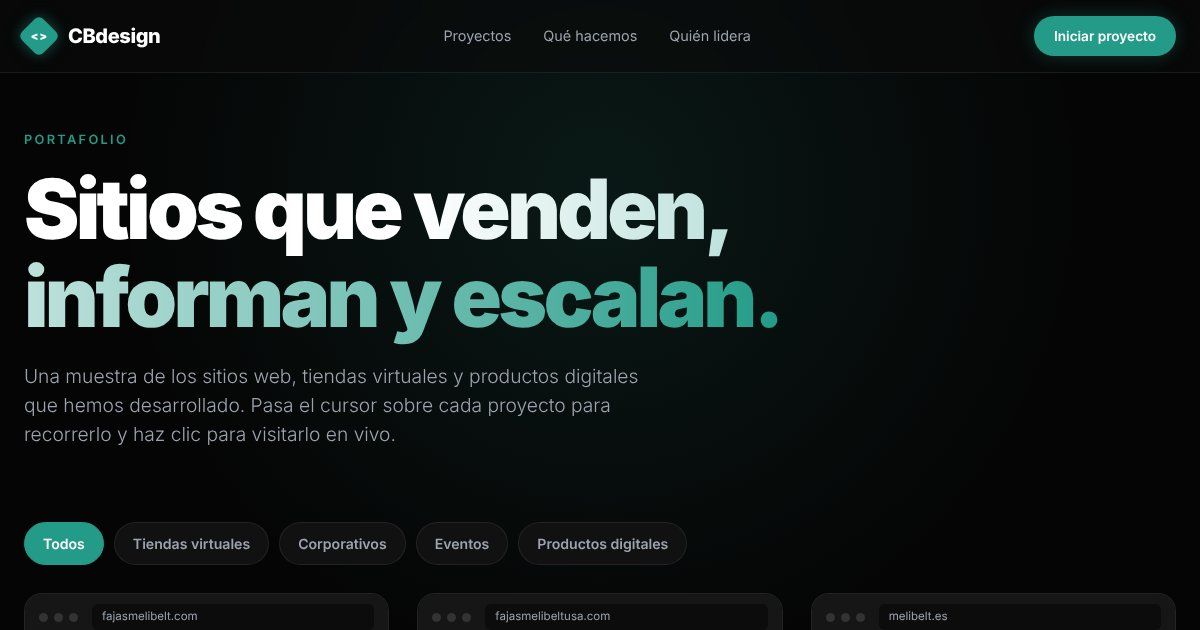
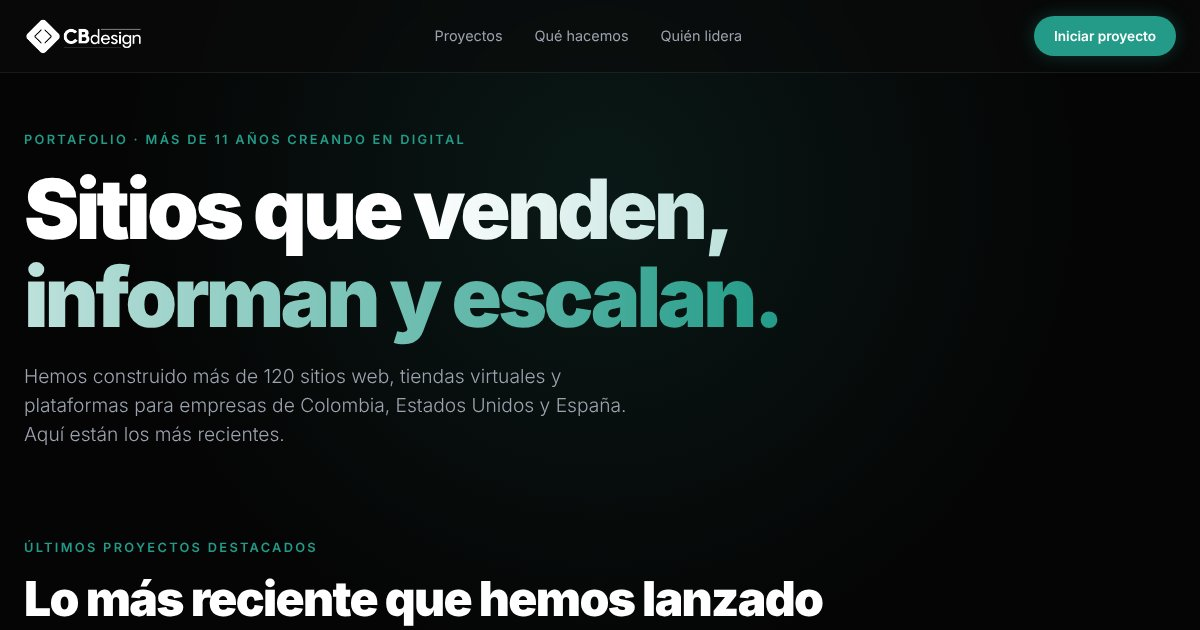
Agregar Commonbird y cifras de trayectoria al portafolio
Claude-Session: https://claude.ai/code/session_01QxxUERTRDUpvhQHNn37zke

diff --git a/index.html b/index.html
@@ -4,7 +4,7 @@
 <meta charset="UTF-8">
 <meta name="viewport" content="width=device-width, initial-scale=1.0">
 <title>Portafolio | CBdesign – Sitios web, tiendas virtuales y automatización</title>
-<meta name="description" content="Conoce los sitios web, tiendas virtuales y productos digitales que hemos desarrollado en CBdesign.">
+<meta name="description" content="Más de 120 sitios web en 11 años. Conoce las tiendas virtuales, sitios corporativos y plataformas más recientes de CBdesign.">
 <meta property="og:title" content="Portafolio CBdesign">
 <meta property="og:description" content="Sitios web, tiendas virtuales y productos digitales desarrollados por CBdesign.">
 <meta property="og:type" content="website">
@@ -36,17 +36,24 @@
 
 <main>
   <section class="hero wrap">
-    <p class="eyebrow">Portafolio</p>
+    <p class="eyebrow">Portafolio · Más de 11 años creando en digital</p>
     <h1>Sitios que <span class="grad">venden, informan y escalan.</span></h1>
-    <p class="lead">Una muestra de los sitios web, tiendas virtuales y productos digitales que hemos desarrollado. Pasa el cursor sobre cada proyecto para recorrerlo y haz clic para visitarlo en vivo.</p>
+    <p class="lead">Hemos construido más de 120 sitios web, tiendas virtuales y plataformas para empresas de Colombia, Estados Unidos y España. Aquí están los más recientes.</p>
     <ul class="stats">
-      <li><strong id="n-proy">11</strong><span>proyectos en línea</span></li>
+      <li><strong>+120</strong><span>sitios web desarrollados</span></li>
+      <li><strong>+11</strong><span>años en el mercado</span></li>
       <li><strong>3</strong><span>países con clientes activos</span></li>
-      <li><strong>100%</strong><span>desarrollo a la medida</span></li>
     </ul>
   </section>
 
   <section id="proyectos" class="wrap">
+    <div class="sec-head">
+      <div>
+        <p class="eyebrow">Últimos proyectos destacados</p>
+        <h2>Lo más reciente que hemos lanzado</h2>
+      </div>
+      <p>Pasa el cursor sobre cada proyecto para recorrerlo y haz clic para visitarlo en vivo.</p>
+    </div>
     <div class="filtros" role="group" aria-label="Filtrar proyectos">
       <button class="chip on" data-f="todos" aria-pressed="true">Todos</button>
       <button class="chip" data-f="tienda" aria-pressed="false">Tiendas virtuales</button>
@@ -56,6 +63,10 @@
     </div>
     <div id="grid" class="grid"></div>
     <noscript><p class="lead">Activa JavaScript para ver los proyectos.</p></noscript>
+    <div class="mas">
+      <p><strong>Esto es solo una muestra.</strong> Detrás hay más de 120 sitios entregados en 11 años de trabajo. Si quieres ver casos de tu sector, pídenoslos.</p>
+      <a class="btn btn-ghost" href="https://wa.me/573026673868?text=Hola%20CBdesign%2C%20quiero%20ver%20m%C3%A1s%20casos%20de%20mi%20sector." target="_blank" rel="noopener">Pedir más casos <span aria-hidden="true">→</span></a>
+    </div>
   </section>
 
   <section id="servicios" class="wrap servicios">
@@ -113,7 +124,7 @@
       <a href="mailto:contacto@cbdesign.com.co">contacto@cbdesign.com.co</a>
       <a href="https://cbdesign.com.co">cbdesign.com.co</a>
     </div>
-    <div>&copy; <span id="anio">2026</span> CBdesign. Todos los derechos reservados.</div>
+    <div>&copy; <span id="anio">2026</span> CBdesign, una marca de Commonbird · NIT 900792449</div>
   </div>
 </footer>
 

diff --git a/assets/estilos.css b/assets/estilos.css
@@ -42,6 +42,16 @@ a:focus-visible,button:focus-visible{outline:2px solid var(--brand);outline-offs
 .stats strong{display:block;font-size:2.2rem;font-weight:900;letter-spacing:-.04em;font-variant-numeric:tabular-nums}
 .stats span{color:var(--mut);font-size:.85rem}
 
+/* Encabezado de proyectos */
+.sec-head{display:flex;flex-wrap:wrap;gap:16px 40px;align-items:flex-end;justify-content:space-between;margin-bottom:28px;padding-top:20px}
+.sec-head>p{color:var(--mut);font-weight:300;max-width:340px;font-size:.95rem}
+.mas{display:flex;flex-wrap:wrap;gap:16px 32px;align-items:center;justify-content:space-between;margin-top:36px;padding:26px 30px;border:1px dashed rgba(35,155,136,.45);border-radius:18px;background:rgba(35,155,136,.06)}
+.mas p{color:#d1d5db;font-weight:300;max-width:640px}
+.mas strong{color:#fff;font-weight:700}
+.mas .btn{margin-top:0}
+.stats strong{color:#fff}
+.stats li{padding-left:16px;border-left:2px solid var(--brand)}
+
 /* Filtros */
 .filtros{display:flex;gap:10px;overflow-x:auto;padding:4px 0 28px;scrollbar-width:none}
 .filtros::-webkit-scrollbar{display:none}

diff --git a/assets/app.js b/assets/app.js
@@ -35,7 +35,6 @@
 
   function pintar(lista) {
     lista.forEach(function (p) { grid.appendChild(tarjeta(p)); });
-    document.getElementById('n-proy').textContent = lista.length;
 
     // En pantallas táctiles no hay hover: se recorre la tarjeta que queda al centro.
     if (window.matchMedia('(hover: none)').matches && 'IntersectionObserver' in window) {
